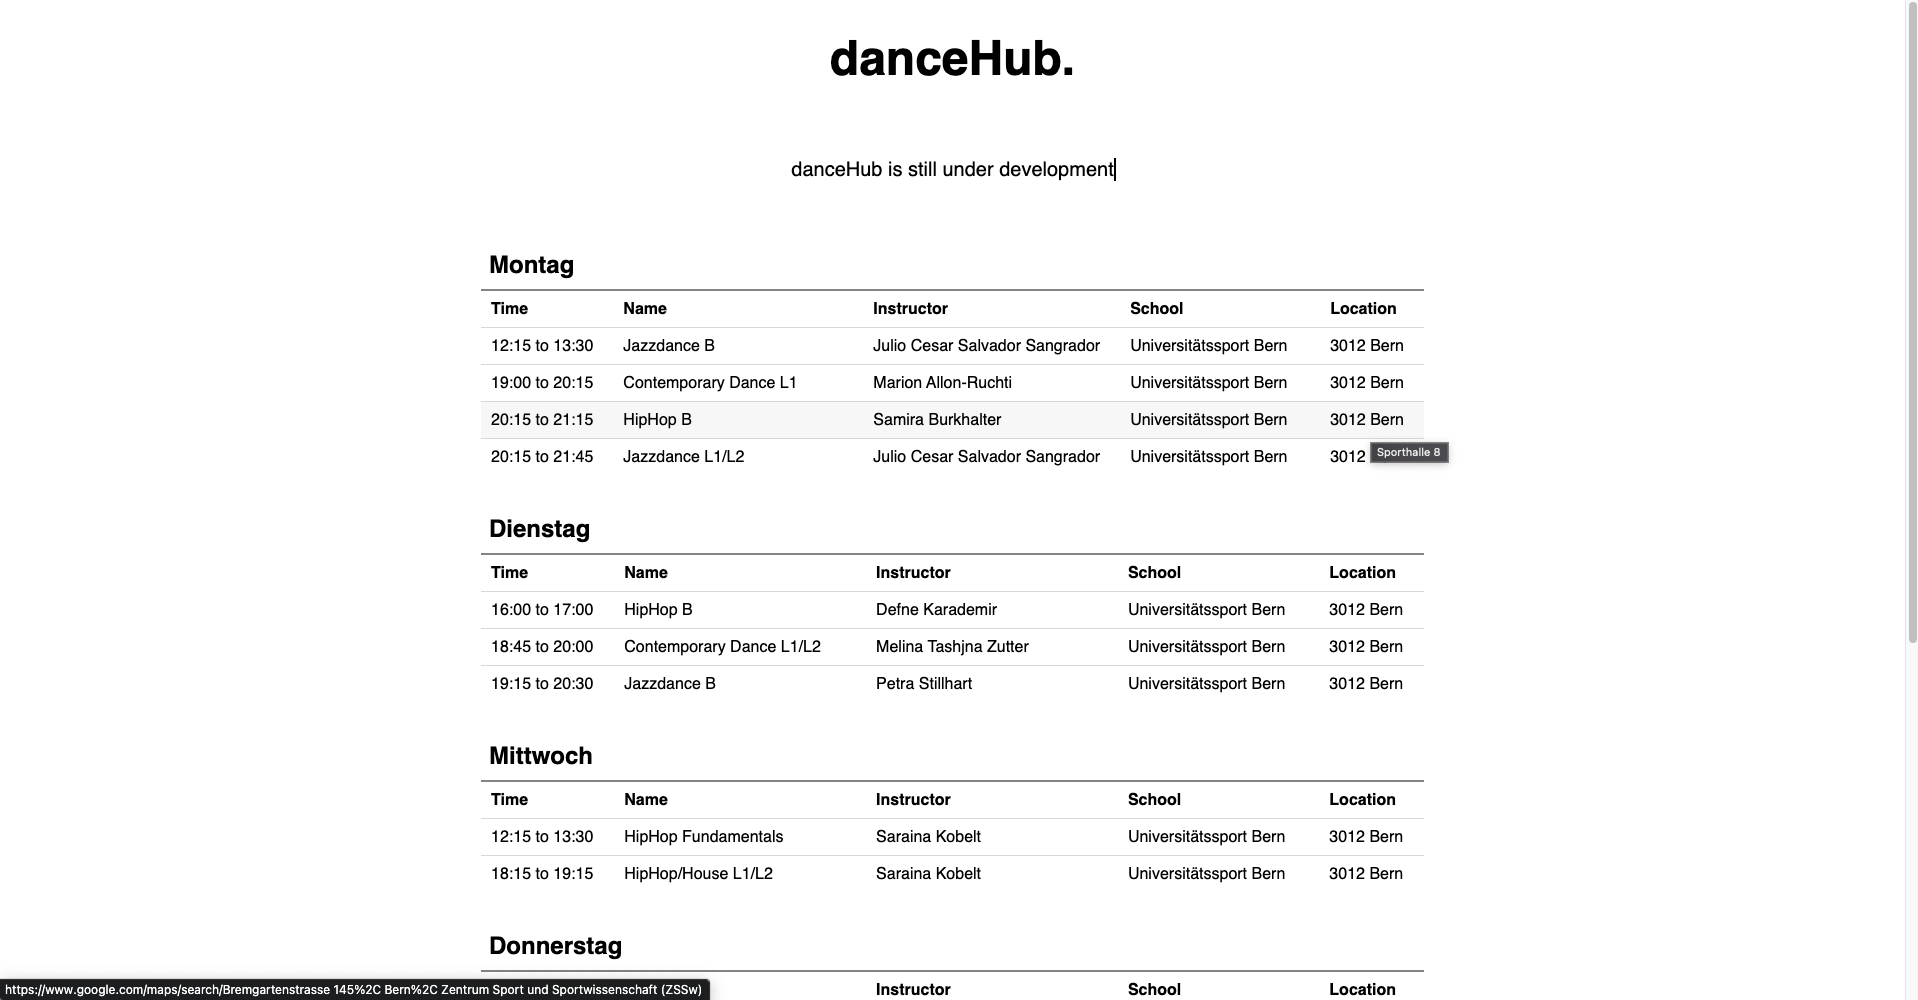
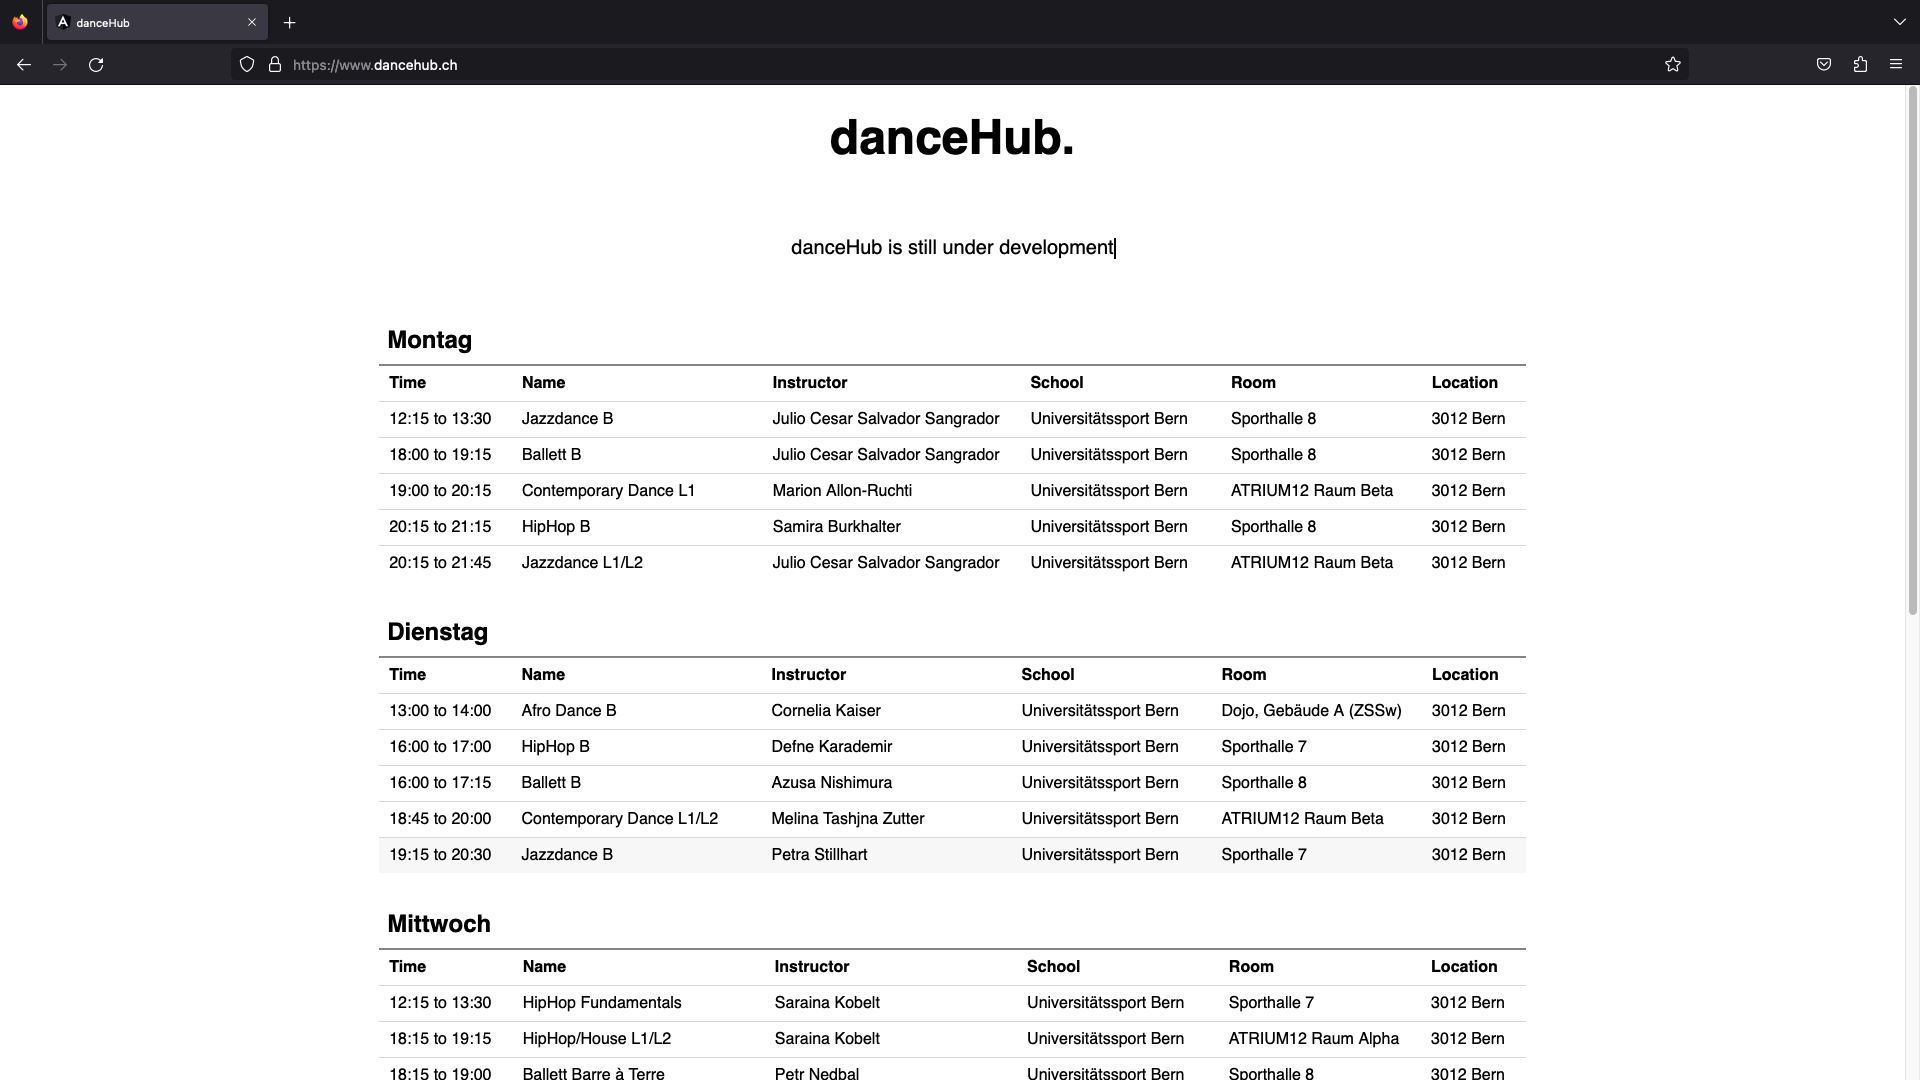
joined query to reduce loading time, server side caching, used relative distance values in css, added deploy script

Changed region(s): [[0.0, 0.248, 0.7998, 1.0], [0.0, 0.0, 1.0, 0.651], [0.3999, 0.217, 0.5845, 0.248]]

diff --git a/frontend/src/app/table/table.component.html b/frontend/src/app/table/table.component.html
@@ -1,30 +1,33 @@
-
-<table *ngFor="let day of ['Montag', 'Dienstag', 'Mittwoch', 'Donnerstag', 'Freitag', 'Samstag']">
-  <caption>{{ day }}</caption>
-  <thead>
-  <tr>
-    <th class="short-name">Time</th>
-    <th class="long-name">Name</th>
-    <th class="long-name">Instructor</th>
-    <th>School</th>
-    <th class="short-name">Location</th>
-  </tr>
-  </thead>
-  <tbody>
-  <tr *ngFor="let item of danceClassDict[day]">
-    <td class="short-name">{{ item.start_time | date:'HH:mm'}} to {{item.end_time | date:'HH:mm' }}</td>
-    <td class="long-name">{{ item.dance_class_name }}</td>
-    <td class="long-name">{{ item.instructor.first_name + ' ' + item.instructor.last_name}}</td>
-    <td>
-      <a href="{{item.dance_school.website}}" target="_blank">
-        {{ item.dance_school.dance_school_name}}
-      </a>
-    </td>
-    <td class="short-name" title="{{item.room_name}}">
-      <a href="https://www.google.com/maps/search/{{ encodeURIComponent(item.location.street + ', ' + item.location.city + ', ' + item.location.name) }}" target="_blank">
-        {{ item.location.zip_code + ' ' + item.location.city}}
-      </a>
-    </td>
-  </tr>
-  </tbody>
-</table>
+<div class="table-container">
+  <table *ngFor="let day of ['Montag', 'Dienstag', 'Mittwoch', 'Donnerstag', 'Freitag', 'Samstag']" class="dance-class-table">
+    <caption>{{ day }}</caption>
+    <thead>
+    <tr>
+      <th class="short-name">Time</th>
+      <th class="long-name">Name</th>
+      <th class="long-name">Instructor</th>
+      <th>School</th>
+      <th>Room</th>
+      <th class="short-name">Location</th>
+    </tr>
+    </thead>
+    <tbody>
+    <tr *ngFor="let item of danceClassDict[day]">
+      <td class="short-name">{{ item.start_time | date:'HH:mm'}} to {{item.end_time | date:'HH:mm' }}</td>
+      <td class="long-name">{{ item.dance_class_name }}</td>
+      <td class="long-name">{{ item.instructor.first_name + ' ' + item.instructor.last_name}}</td>
+      <td>
+        <a href="{{item.dance_school.website}}" target="_blank">
+          {{ item.dance_school.dance_school_name}}
+        </a>
+      </td>
+      <td>{{ item.room_name }}</td>
+      <td class="short-name" title="{{item.location.name}}">
+        <a href="https://www.google.com/maps/search/{{ encodeURIComponent(item.location.street + ', ' + item.location.city + ', ' + item.location.name) }}" target="_blank">
+          {{ item.location.zip_code + ' ' + item.location.city}}
+        </a>
+      </td>
+    </tr>
+    </tbody>
+  </table>
+</div>

diff --git a/frontend/src/app/table/table.component.css b/frontend/src/app/table/table.component.css
@@ -2,28 +2,28 @@ caption {
   font-size: 1.5em;
   text-align: left;
   font-weight: bold;
-  margin-bottom: 10px;
-  margin-left: 8px;
+  margin-bottom: 0.5em;
+  margin-left: 0.5em;
 }
 
 table {
   width: 100%; /* You can set the width to any percentage or value you prefer */
   border-collapse: collapse;
-  margin-bottom: 40px;
+  margin-bottom: 2.5em;
 }
 
 th, td {
-  padding: 9px 20px 9px 10px; /* top right bottom left */
+  padding: 0.5em 1.2em 0.5em 0.6em; /* top right bottom left */
   text-align: left;
-  min-width: 170px;
+  min-width: 10em;
 }
 
 .long-name {
-  min-width: 220px;
+  min-width: 12em;
 }
 
 .short-name {
-  min-width: 50px;
+  min-width: 6em;
 }
 
 th {

diff --git a/frontend/src/app/app.component.css b/frontend/src/app/app.component.css
@@ -54,6 +54,6 @@ body {
   justify-content: center;
   align-items: center;
   height: 100%;
-  padding: 0 15%;
+  padding: 0 10%;
   margin-top: 50px;
 }

diff --git a/backend/src/main/java/com/dancehub/backend/repository/DanceClassRepository.java b/backend/src/main/java/com/dancehub/backend/repository/DanceClassRepository.java
@@ -1,11 +1,17 @@
 package com.dancehub.backend.repository;
 
 import com.dancehub.backend.model.DanceClass;
+import org.springframework.cache.annotation.Cacheable;
 import org.springframework.data.jpa.repository.JpaRepository;
+import org.springframework.data.jpa.repository.Query;
 
 import java.util.List;
 
 public interface DanceClassRepository extends JpaRepository<DanceClass, Integer> {
 
     List<DanceClass> findByWeekday(String weekday);
+
+    @Cacheable("danceClasses")
+    @Query("SELECT DISTINCT d FROM DanceClass d JOIN FETCH d.instructor i JOIN FETCH d.location l JOIN FETCH d.danceSchool ds")
+    List<DanceClass> findAllWithInstructorLocationAndDanceSchool();
 }

diff --git a/backend/src/main/java/com/dancehub/backend/controller/DanceClassController.java b/backend/src/main/java/com/dancehub/backend/controller/DanceClassController.java
@@ -28,7 +28,7 @@ public class DanceClassController {
     @CrossOrigin(origins = "http://localhost:4200")
     @GetMapping("/course/all")
     public ResponseEntity<List<DanceClass>> getCourses() {
-        return ResponseEntity.ok().body(danceClassRepository.findAll());
+        return ResponseEntity.ok().body(danceClassRepository.findAllWithInstructorLocationAndDanceSchool());
     }
 
     // get course by class_weekday

diff --git a/backend/src/main/java/com/dancehub/backend/BackendApplication.java b/backend/src/main/java/com/dancehub/backend/BackendApplication.java
@@ -2,8 +2,10 @@ package com.dancehub.backend;
 
 import org.springframework.boot.SpringApplication;
 import org.springframework.boot.autoconfigure.SpringBootApplication;
+import org.springframework.cache.annotation.EnableCaching;
 
 @SpringBootApplication
+@EnableCaching
 public class BackendApplication {
 
     public static void main(String[] args) {

diff --git a/README.md b/README.md
@@ -6,8 +6,11 @@ Website for an up-to-date overview of dance classes in Switzerland
 - [x] Demo data inserted
 - [x] API-Endpoints for getting all classes and all classes per weekday
 - [x] Frontend page for displaying all classes
-- [ ] Scraper for getting data from dance school
-- [ ] Filter lessons by dance style
+- [x] Bash script for deploying local changes to server
+- [x] Server side caching for DB query results
+- [ ] Scraper for getting data from dance schools
+- [ ] Deploy scraper to regularly update data to DB
+- [ ] Filter lessons by dance style, dance school, location, etc.
 
 ### Technologies
 - **Frontend:** TypeScript, Angular
